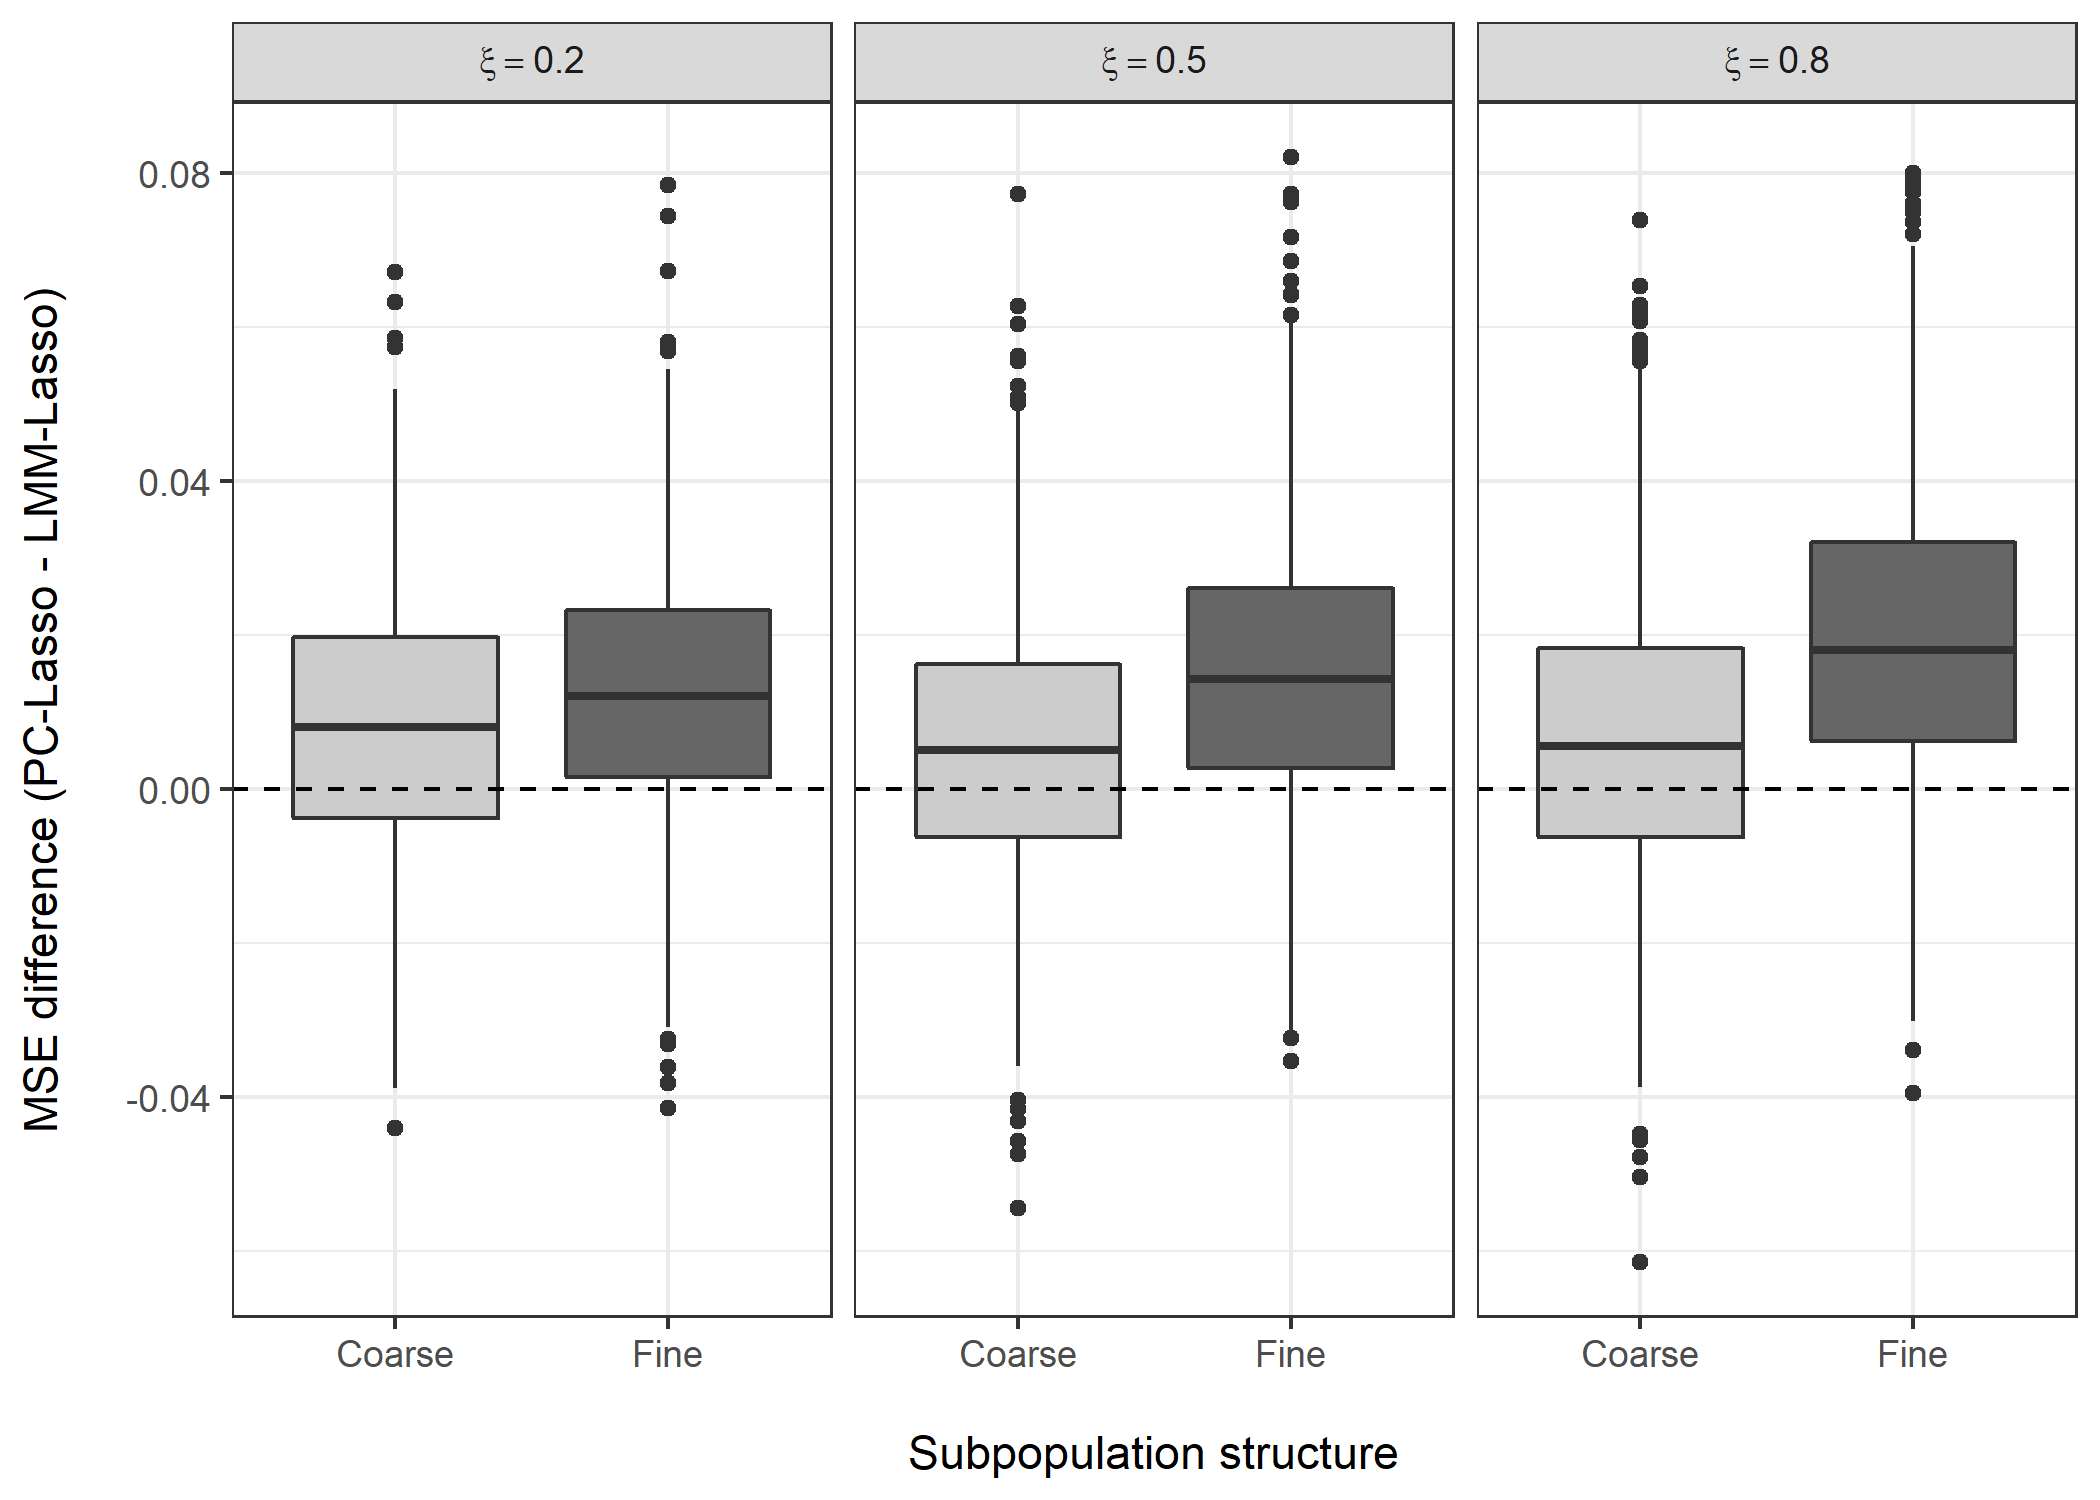
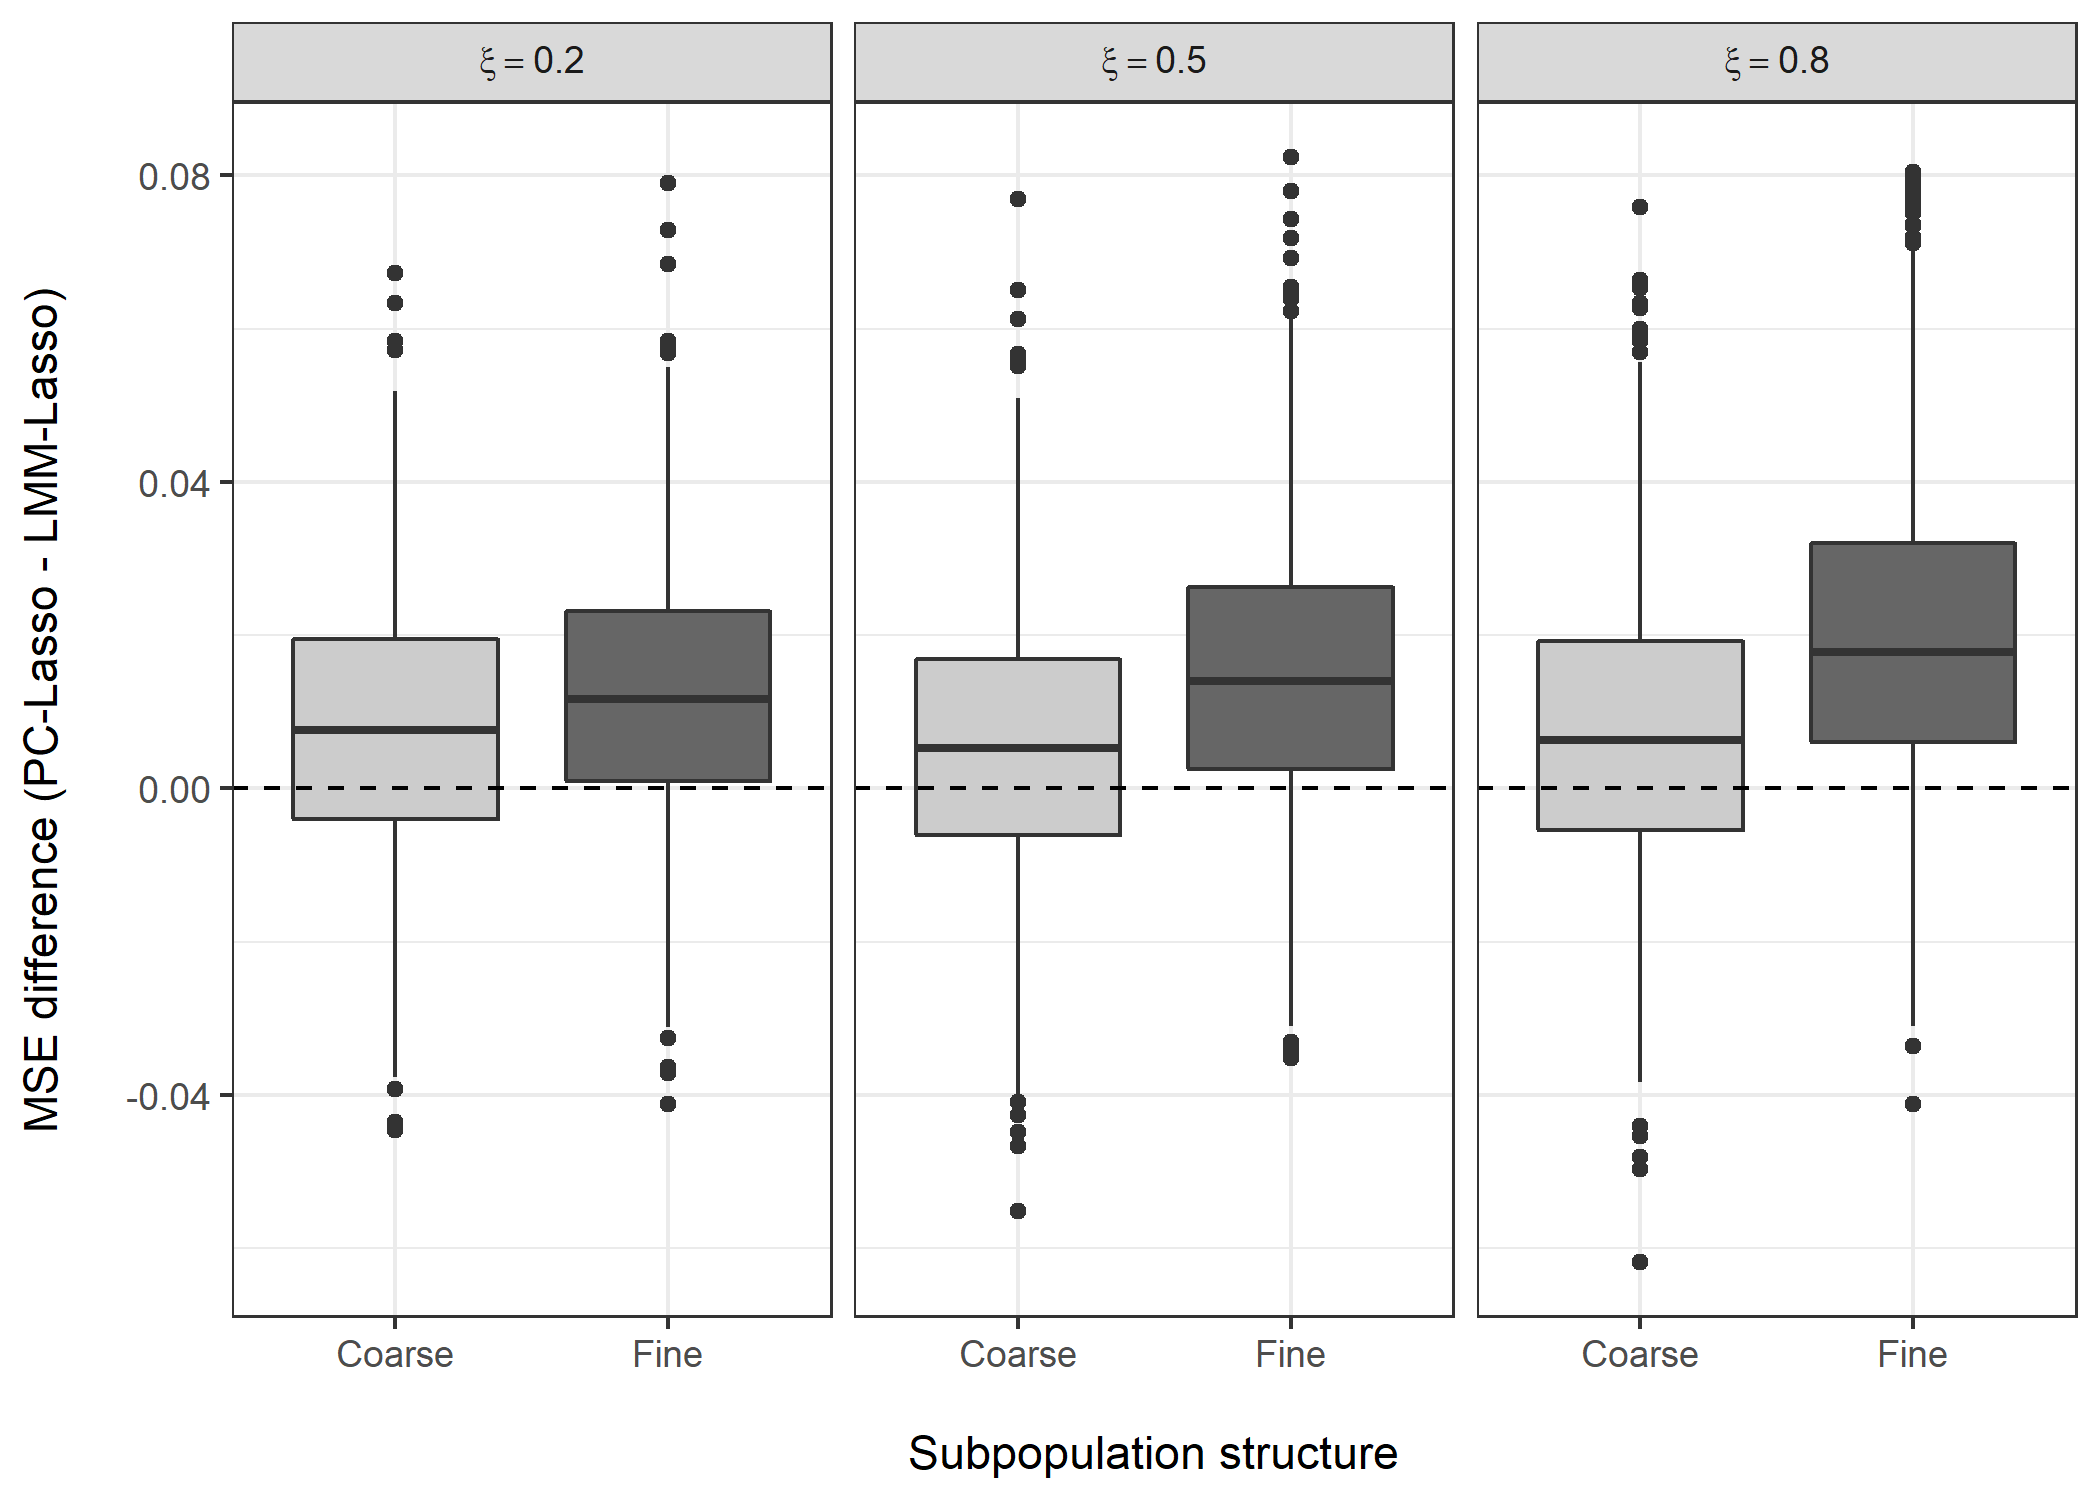
Updating figures with plmm_lasso and updated time results

diff --git a/main.tex b/main.tex
@@ -367,7 +367,7 @@ $\eta$ & $\xi$ & \multicolumn{1}{c}{Method} & 1D Linear Admixture & Independent 
 \subsection{LMM-Lasso outperforms PC-Lasso in the presence of fine subpopulation structure}
 %------------------------------%
 
-Given the superior performance of PC-Lasso and LMM-Lasso compared to the naive lasso in the presence of environmental confounding, we next compare these methods in the presence of fine and coarse subpopulation structures. Phenotypes were simulated using a 1:1 SNR, $\eta = 0.5$, and varying levels of environmental confounding, $\xi \in \{0, 0.2, 0.5,0.8\}$. Figure \ref{fig:big_vs_small} summarizes the results of these simulations for the independent subpopulation simulated $\bX$ with environmental confounding generated using a dichotomous-discordant $\bgamma$ structure, though qualitatively similar results were observed for the other data types and $\gamma$ structures. The y-axis displays the difference in MSE (PC-Lasso - LMM-Lasso) for each simulation and for the various subpopulation structures. The dashed horizontal line at 0 indicates no difference in the performance of PC-Lasso and LMM-Lasso, while differences greater than 0 correspond to smaller MSE for LMM-Lasso, and thus superior estimation accuracy. 
+Given the superior performance of PC-Lasso and LMM-Lasso compared to the naive lasso in the presence of environmental confounding, we next compare these methods in the presence of fine and coarse subpopulation structures. Phenotypes were simulated using a 1:1 SNR, $\eta = 0.5$, and varying levels of environmental confounding, $\xi \in \{0.2, 0.5,0.8\}$. Figure \ref{fig:big_vs_small} summarizes the results of these simulations for the independent subpopulation simulated $\bX$ with environmental confounding generated using a dichotomous-discordant $\bgamma$ structure, though qualitatively similar results were observed for the other data types and $\gamma$ structures. The y-axis displays the difference in MSE (PC-Lasso - LMM-Lasso) for each simulation and for the various subpopulation structures. The dashed horizontal line at 0 indicates no difference in the performance of PC-Lasso and LMM-Lasso, while differences greater than 0 correspond to smaller MSE for LMM-Lasso, and thus superior estimation accuracy. 
 
 In the presence of coarse population structure, there is some overlap in the estimation accuracy of PC-Lasso and LMM-Lasso, as evidenced by the corresponding boxes straddling the 0 line. However, the majority of these boxes fall above 0, particularly for lower $\eta$ values, indicating the superior performance of LMM-Lasso. In the presence of fine population structure, LMM-Lasso is clearly superior to PC-Lasso in estimation accuracy. This is consistent with \citet{hoffman2013correcting}, who showed that principal component adjustment methods represent a low dimensional approximation to linear mixed models. As such, it is reasonable that PC-Lasso, which corrects for population structure using a low dimensional set of surrogate variables, would perform reasonably well in the coarse subpopulation setting, but fall short in the presence of fine structure. 
 \begin{figure}[H]
@@ -409,28 +409,8 @@ LMM-Lasso-Rakitsch estimates the variance components once, under the assumption 
      \caption{$\bbeta$ and $\eta$ estimation accuracy of LMM-Lasso-Rakitsch and LMM-Lasso-ggmix for varying $\eta$ levels and sample sizes with independent subpopulation data, coarse subpopulation structure, $\xi = 0.8$, and dichotomous-discordant environmental effect structure.}
     \label{fig:eta_beta_mse}
 \end{figure}
-\anna{replace this figure with one that includes time in the third row}
 
-
-\begin{figure}[H]
-    \centering
-    \includegraphics[scale = 0.8]{figures/time_ratio.png}
-    \caption{Computing time of LMM-Lasso-Rakitsch compared with that of LMM-Lasso-ggmix for varying sample sizes with independent subpopulation structure, coarse subpopulation structure, $\eta = 0.5$, $\xi = 0.8$, and dichotomous-discordant environmental effect structure.}
-    \label{fig:time}
-\end{figure}
-\anna{Note Figure \ref{fig:time} is on raw scale, not log10. This is because the negative values on the error bars create problems and become NaN on the log10 scale}
-
-\begin{figure}[H]
-    \centering
-    \includegraphics[scale = 0.8]{figures/time_ratio_box.png}
-    \caption{\anna{Alternate time fig} Computing time of LMM-Lasso-Rakitsch compared with that of LMM-Lasso-ggmix for varying sample sizes with independent subpopulation structure, coarse subpopulation structure, $\eta = 0.5$, $\xi = 0.8$, and dichotomous-discordant environmental effect structure.}
-    \label{fig:time_box}
-\end{figure}
-
-
-\anna{make new time box plot - two boxes instead of ratio - also run for n = 1000, 1200, maybe 1400 and show MSE along with time... compare convergence results to ncvfit}
-
-In addition, we have found that LMM-Lasso-ggmix performs poorly in a low-dimensional setting due to the ill-conditioning of the RRM. Given its intended use for the analysis of high-dimensional data, this fact could be of little consequence to practitioners. However, although its estimation accuracy in high dimensions is on par with that of LMM-Lasso-Rakitsch, as shown in Figure \ref{fig:eta_beta_mse}, this is also a setting in which the computational time required may be prohibitive for practical applications. \anna{time interpretation depends on reason ggmix is slow...} Figure \ref{fig:time} shows the ratio of computing time required for LMM-Lasso-ggmix compared to that of LMM-Lasso-Rakitsch, for various sample sizes. The horizontal dashed line at 1 indicates both methods require the same computing time. Despite its comparable performance in accurately estimating $\bbetaHat$, LMM-Lasso-ggmix takes requires an average of \anna{73.4} times the computing time of LMM-Lasso-Rakitsch. Thus, LMM-Lasso-Rakitsch seems to be a more attractive and scalable method than LMM-Lasso-ggmix.
+In addition, we have found that LMM-Lasso-ggmix performs poorly in a low-dimensional setting due to the ill-conditioning of the RRM. Given its intended use for the analysis of high-dimensional data, this fact could be of little consequence to practitioners. However, although its estimation accuracy in high dimensions is on par with that of LMM-Lasso-Rakitsch, as shown in Figure \ref{fig:eta_beta_mse}, this is also a setting in which the computational time required may be prohibitive for practical applications. \anna{time interpretation depends on reason ggmix is slow...} Figure \ref{fig:eta_beta_mse} shows the ratio of computing time required for LMM-Lasso-ggmix compared to that of LMM-Lasso-Rakitsch, for various sample sizes. The horizontal dashed line at 1 indicates both methods require the same computing time. Despite its comparable performance in accurately estimating $\bbetaHat$, LMM-Lasso-ggmix takes requires an average of \anna{73.4} times the computing time of LMM-Lasso-Rakitsch. Thus, LMM-Lasso-Rakitsch seems to be a more attractive and scalable method than LMM-Lasso-ggmix.
 
 
 %%%%%%%%%%%%%%%%%%%%%%%%%%%%%%%%
